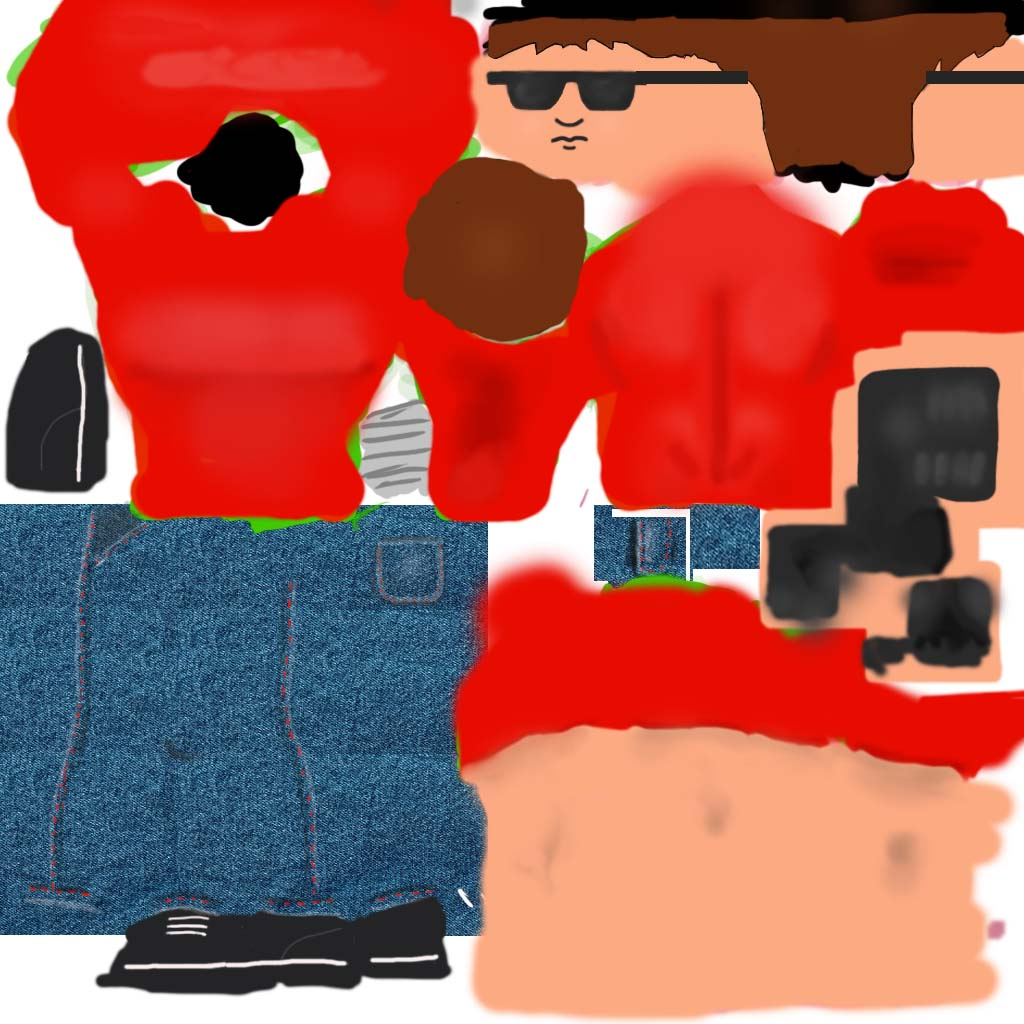
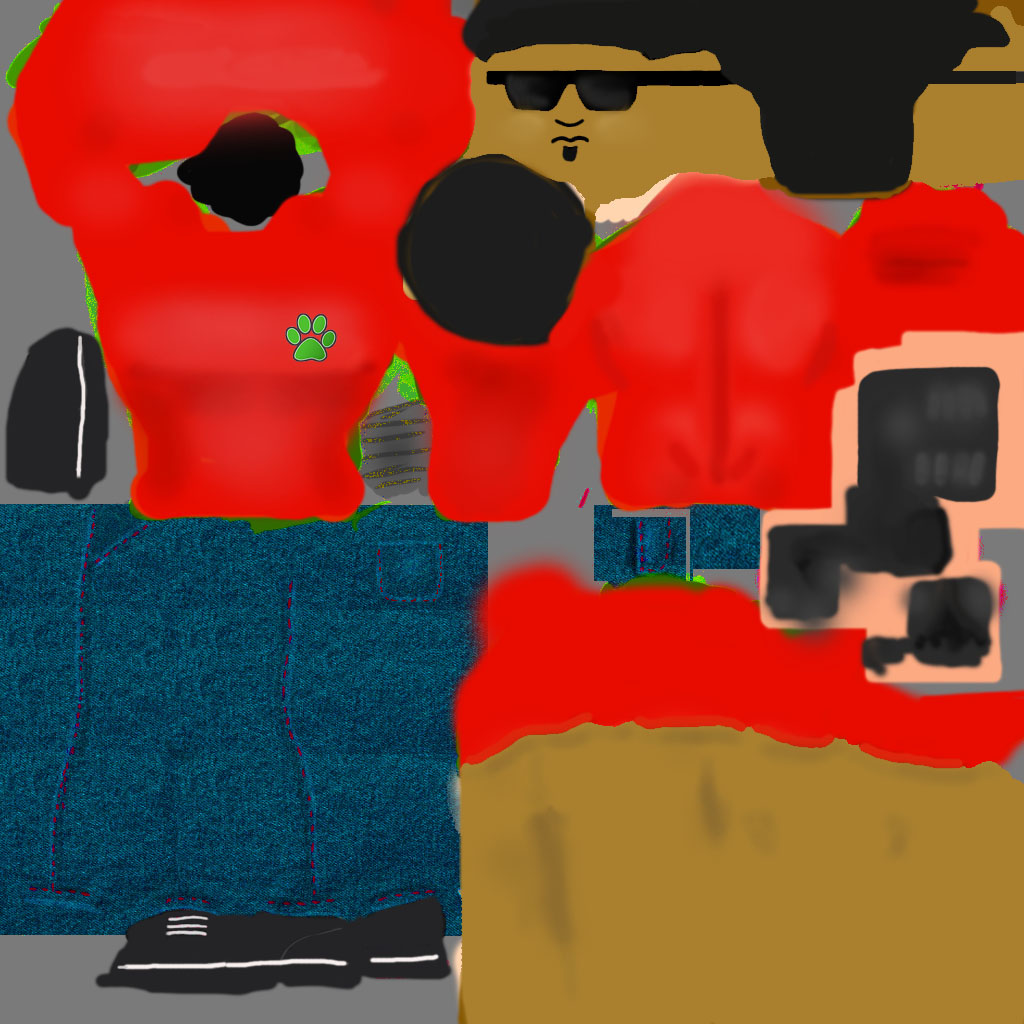
each operator has their own unique set of clothes

diff --git a/src/edu/uprm/gaming/entity/E_Operator.java b/src/edu/uprm/gaming/entity/E_Operator.java
@@ -101,6 +101,16 @@ public class E_Operator {
     private double normalParamUnload = 0.0;
     public boolean isLoadingInitialOperatorData = false;
     private Sphere sphereSpot;
+    
+    private static String[] operatorAssembler = new String[6];
+    private static int index1 = -1;
+    
+    private static String[] operatorCarrier = new String[8];
+    private static int index2 = -1;
+    
+    private static String[] operatorVersatile = new String[2];
+    private static int index3 = -1;
+
 
     public int getDefaultValue() {
         return defaultValue;
@@ -251,17 +261,23 @@ public class E_Operator {
         }
         if (isCarrier && isAssembler){
             category = OperatorCategory.Versatile;
-            modelCharacter.setMaterial(assetManager.loadMaterial("Models/Operator/operatorVersatile.j3m"));
+            index3++;
+            modelCharacter.setMaterial(assetManager.loadMaterial(operatorVersatile[index3]));
+            System.out.println("Entered first method. operatorCarrier[" + index3 + "] = " + operatorVersatile[index3]);
             salaryPerHour = salaryPerHourVersatile;
         }else
         if (isCarrier){
             category = OperatorCategory.Carrier;
-            modelCharacter.setMaterial(assetManager.loadMaterial("Models/Operator/operatorCarrier.j3m"));
+            index2++;
+            modelCharacter.setMaterial(assetManager.loadMaterial(operatorCarrier[index2]));
+            System.out.println("Entered first method. operatorCarrier[" + index2+ "] = " + operatorCarrier[index2]);
             salaryPerHour = salaryPerHourCarrier;
         }else
         if (isAssembler){
             category = OperatorCategory.Assembler;
-            modelCharacter.setMaterial(assetManager.loadMaterial("Models/Operator/operatorAssembler.j3m"));
+            index1++;
+            modelCharacter.setMaterial(assetManager.loadMaterial(operatorAssembler[index1]));
+            System.out.println("Entered first method. operatorAssembler[" + index1 + "] = " + operatorAssembler[index1]);
             salaryPerHour = salaryPerHourAssembler;
         }
     }
@@ -676,6 +692,18 @@ public class E_Operator {
     }
 
     public E_Operator() {
+        operatorAssembler[0] = "Models/Operator/operatorAssembler.j3m";
+        for (int i = 1; i < operatorAssembler.length; i++)
+            operatorAssembler[i] = "Models/Operator/operatorAssembler" + i + ".j3m";
+        
+        operatorCarrier[0] = "Models/Operator/operatorCarrier.j3m";
+        for (int i = 1; i < operatorCarrier.length; i++)
+            operatorCarrier[i] = "Models/Operator/operatorCarrier" + i + ".j3m";
+        
+        operatorVersatile[0] = "Models/Operator/operatorVersatile.j3m";
+        for (int i = 1; i < operatorVersatile.length; i++)
+            operatorVersatile[i] = "Models/Operator/operatorVersatile" + i + ".j3m";
+        
         isLoadingInitialOperatorData = true;
         sphereSpot = new Sphere(16, 16, (float)Params.standardPartWidthLength/2);
         arrActivitiesAssigned = new HashMap<Integer, E_Activity>();
@@ -779,7 +807,9 @@ public class E_Operator {
             categoryCarrier = getSkillSelected(Params.skillCarrier);
         if (category.equals(OperatorCategory.Assembler)){
             setSalaryPerHour(salaryPerHourAssembler);
-            modelCharacter.setMaterial(assetManager.loadMaterial("Models/Operator/operatorAssembler.j3m"));
+            index1 = (index1 + 1) % operatorAssembler.length;
+            modelCharacter.setMaterial(assetManager.loadMaterial(operatorAssembler[index1]));
+            System.out.println("Entered second method. operatorAssembler[" + index1 + "] = " + operatorAssembler[index1]);
             if (getSkillSelected(Params.skillAssembler) == null){
                 if (categoryAssembler != null)
                     arrSkills.add(categoryAssembler);
